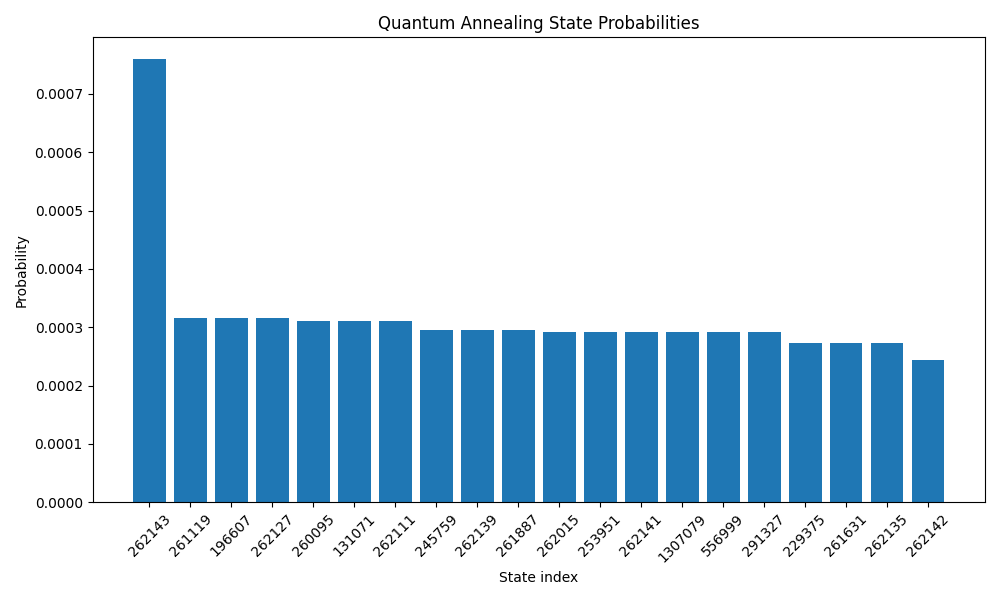
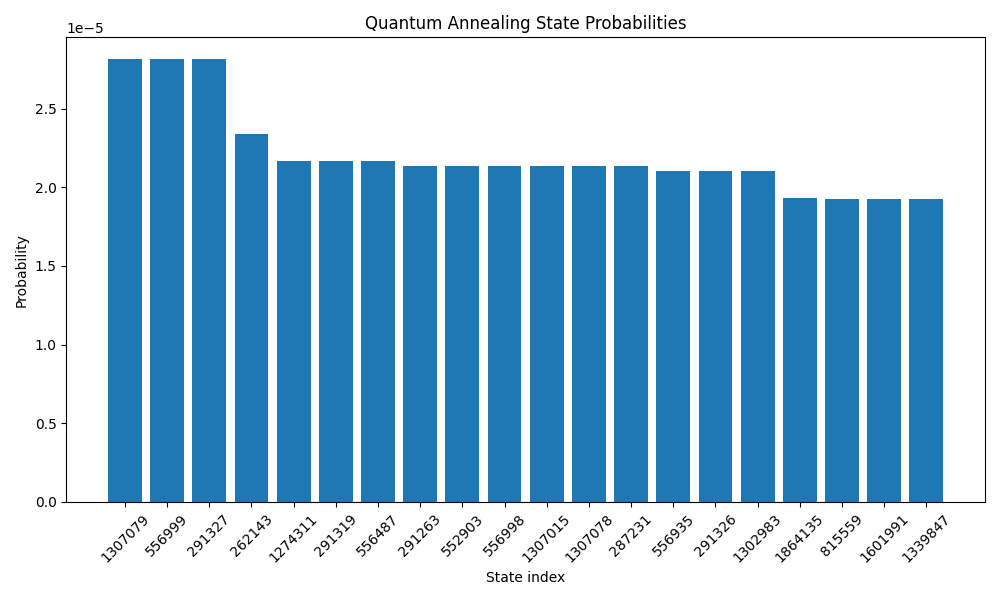
test in Time = 1000000

diff --git a/experiments/3_prisoners_dilemma.c b/experiments/3_prisoners_dilemma.c
@@ -71,7 +71,7 @@ int main()
     double complex f1[Nums] = {0.0 + 0.0 * I};
 
     double B0 = 1.0;
-    int Time = 10000;
+    int Time = 100000;
     double tau = 1.0;
 
     /*数値シミュレーション上では J[i][j]はいらない。関数式そのものにすべての場合を代入すれば対角成分は計算可能である*/
@@ -82,7 +82,7 @@ int main()
     int s1, s2, s3;                        /*ペナルティ項毎のスラック変数用*/
     int H0 = 0;                            /*目的関数部分のハミルトニアン関数 H0(q0,q1,q2)（演算子ではない。）*/
     int alpha = -5, beta = -5, gamma = -5; /*戦略の期待値を抑えるハイパーパラメータ*/
-    const double hypers[] = {1.0, 1.0, 1.0}; /*制約項のハイパーパラメータ*/
+    const double hypers[] = {2.0, 2.0, 2.0}; /*制約項のハイパーパラメータ*/
     const int num_pen = 6;                 /*ペナルティ項の個数.*/
     const int num_slack = 3;               /*各ペナルティ項におけるスラック変数の個数*/
     const int start_slack = 3;             /*スラックが始まるインデックス番号*/
@@ -156,11 +156,7 @@ int main()
 
     /*最終出力*/
     double p;
-    for (int i = 0; i < Nums; i++)
-    {
-        p = cabs(f1[i]) * cabs(f1[i]);
-        if (p > 0.01){
-            printf("%d : %f\n", i, p);
-        }
-    }
+    FILE *fp = fopen("./results/3_prisoners_dilemma_result.bin", "wb");
+    fwrite(f1, sizeof(double complex), Nums, fp);
+    fclose(fp);
 }

diff --git a/src/new_annealing_util.c b/src/new_annealing_util.c
@@ -128,11 +128,11 @@ int main(void)
     double complex f1[Nums] = {0.0 + 0.0 * I};
 
     double B0 = 1.0;
-    int Time = 10000;
+    int Time = 1000000;
     double tau = 1.0;
 
     int alpha = -5, beta = -5, gamma = -5;
-    const double hypers[3] = {1.0, 1.0, 1.0};
+    const double hypers[3] = {3.0, 3.0, 3.0};
     const int num_pen = 6;
     const int num_slack = 3;
     const int start_slack = 3;
@@ -179,7 +179,7 @@ int main(void)
     time_evolution_Hamiltonian(f1, H, Time, B0, tau);
 
     printf("finished\n");
-    FILE *fp = fopen("result.bin", "wb");
+    FILE *fp = fopen("./results/result.bin", "wb");
     fwrite(f1, sizeof(double complex), Nums, fp);
     fclose(fp);
 

diff --git a/src/annealing_util.c b/src/annealing_util.c
@@ -124,10 +124,6 @@ void time_evolution_Hamiltonian(double complex f1[Nums], double H[Nums], int Tim
         if(time % 1000 == 0){
             printf("%dth\n",time);
         } 
-         for(int i=0;i<Nums;i++){
-             printf("%f + %f * I\n",creal(f1[i]),cimag(f1[i]));
-         }
-         printf("\n");
     }
 }
 
